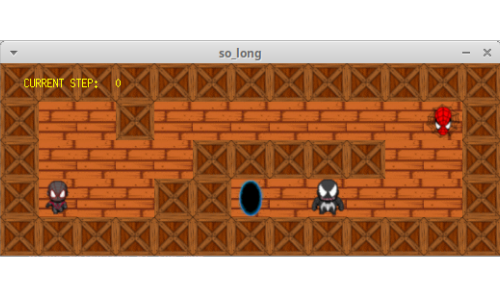
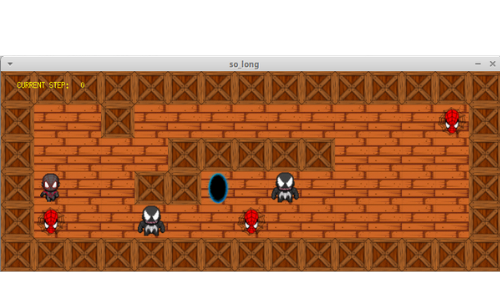
changing the images size

diff --git a/so_long.h b/so_long.h
@@ -6,7 +6,7 @@
 /*   By: mavinici <mavinici@student.42sp.org.br>    +#+  +:+       +#+        */
 /*                                                +#+#+#+#+#+   +#+           */
 /*   Created: 2021/08/13 10:54:13 by mavinici          #+#    #+#             */
-/*   Updated: 2021/08/24 09:46:07 by mavinici         ###   ########.fr       */
+/*   Updated: 2021/08/24 11:19:14 by mavinici         ###   ########.fr       */
 /*                                                                            */
 /* ************************************************************************** */
 
@@ -14,16 +14,16 @@
 
 # define SO_LONG_H
 
-# define TILES 40
-# define PATH_W "./sprite_file/wall4.xpm"
-# define PATH_E "./sprite_file/empty4.xpm"
-# define PATH_EX "./sprite_file/exit4.xpm"
-# define PATH_PD "./sprite_file/player_down4.xpm"
-# define PATH_PT "./sprite_file/player_top4.xpm"
-# define PATH_PR "./sprite_file/player_right4.xpm"
-# define PATH_PL "./sprite_file/player_left4.xpm"
-# define PATH_I "./sprite_file/item4.xpm"
-# define PATH_V "./sprite_file/venom4.xpm"
+# define TILES 50
+# define PATH_W "./sprite_file/wall.xpm"
+# define PATH_E "./sprite_file/empty.xpm"
+# define PATH_EX "./sprite_file/exit.xpm"
+# define PATH_PD "./sprite_file/player_down.xpm"
+# define PATH_PT "./sprite_file/player_top.xpm"
+# define PATH_PR "./sprite_file/player_right.xpm"
+# define PATH_PL "./sprite_file/player_left.xpm"
+# define PATH_I "./sprite_file/item.xpm"
+# define PATH_V "./sprite_file/venom.xpm"
 # define TOP 0x77
 # define DOWN 0x73
 # define LEFT 0x61
